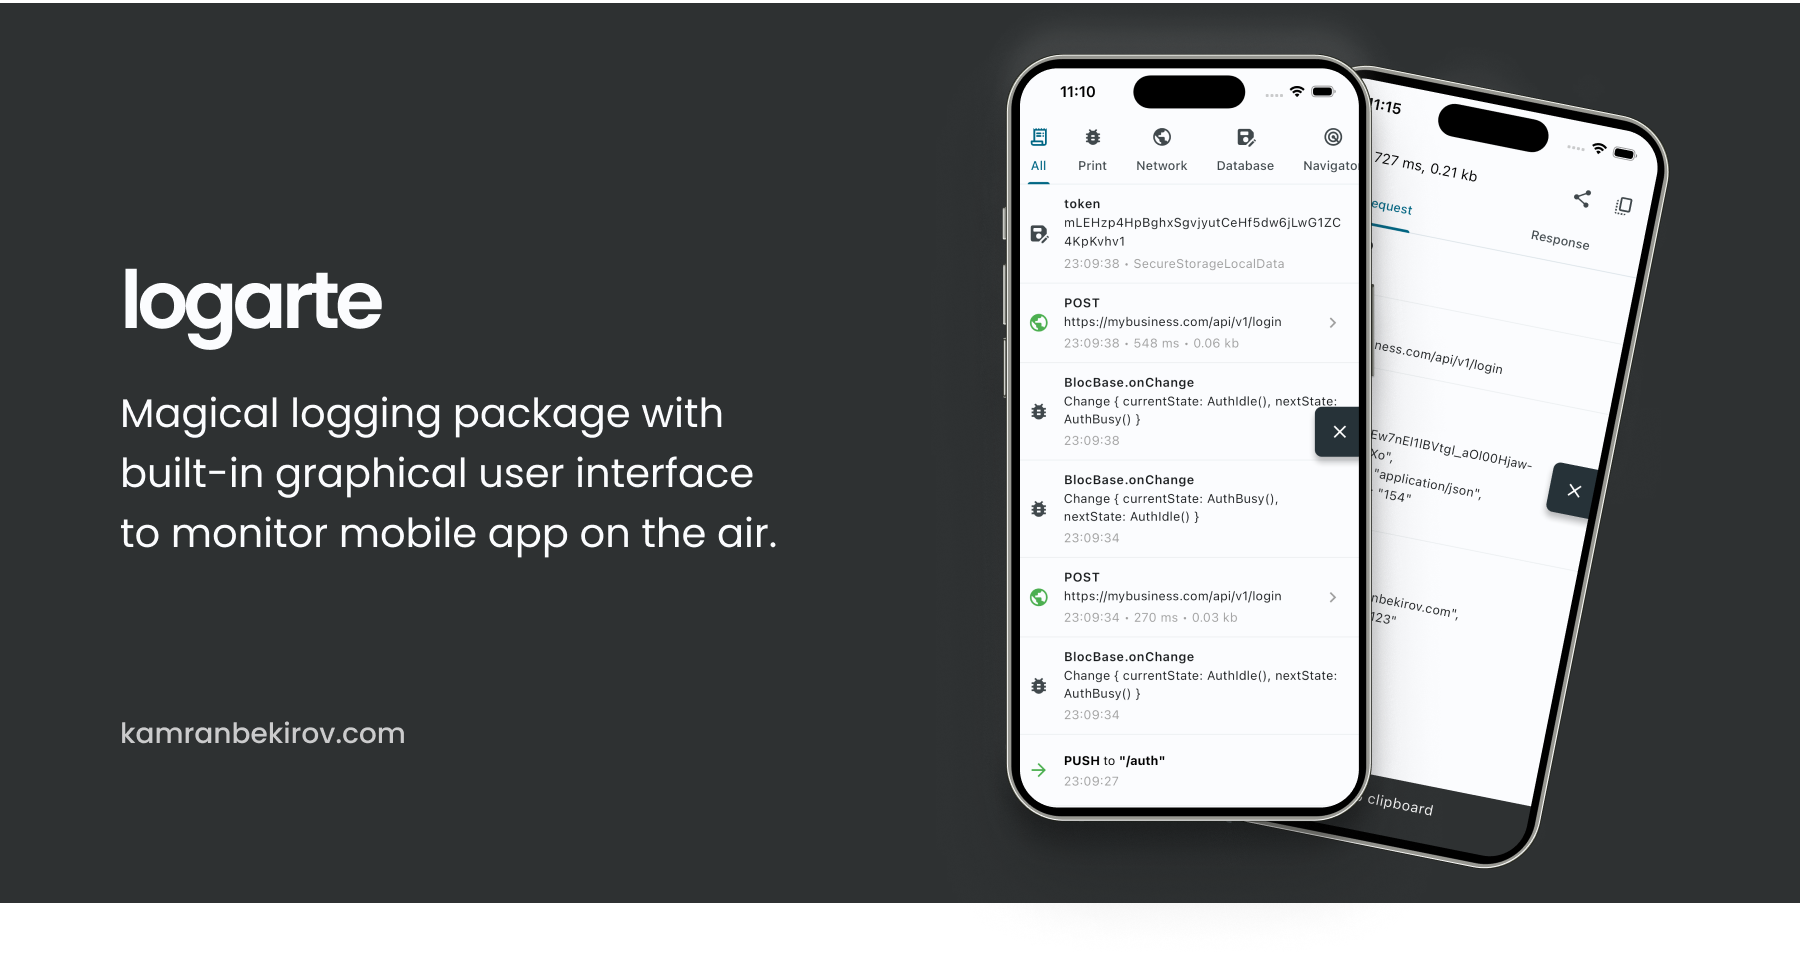
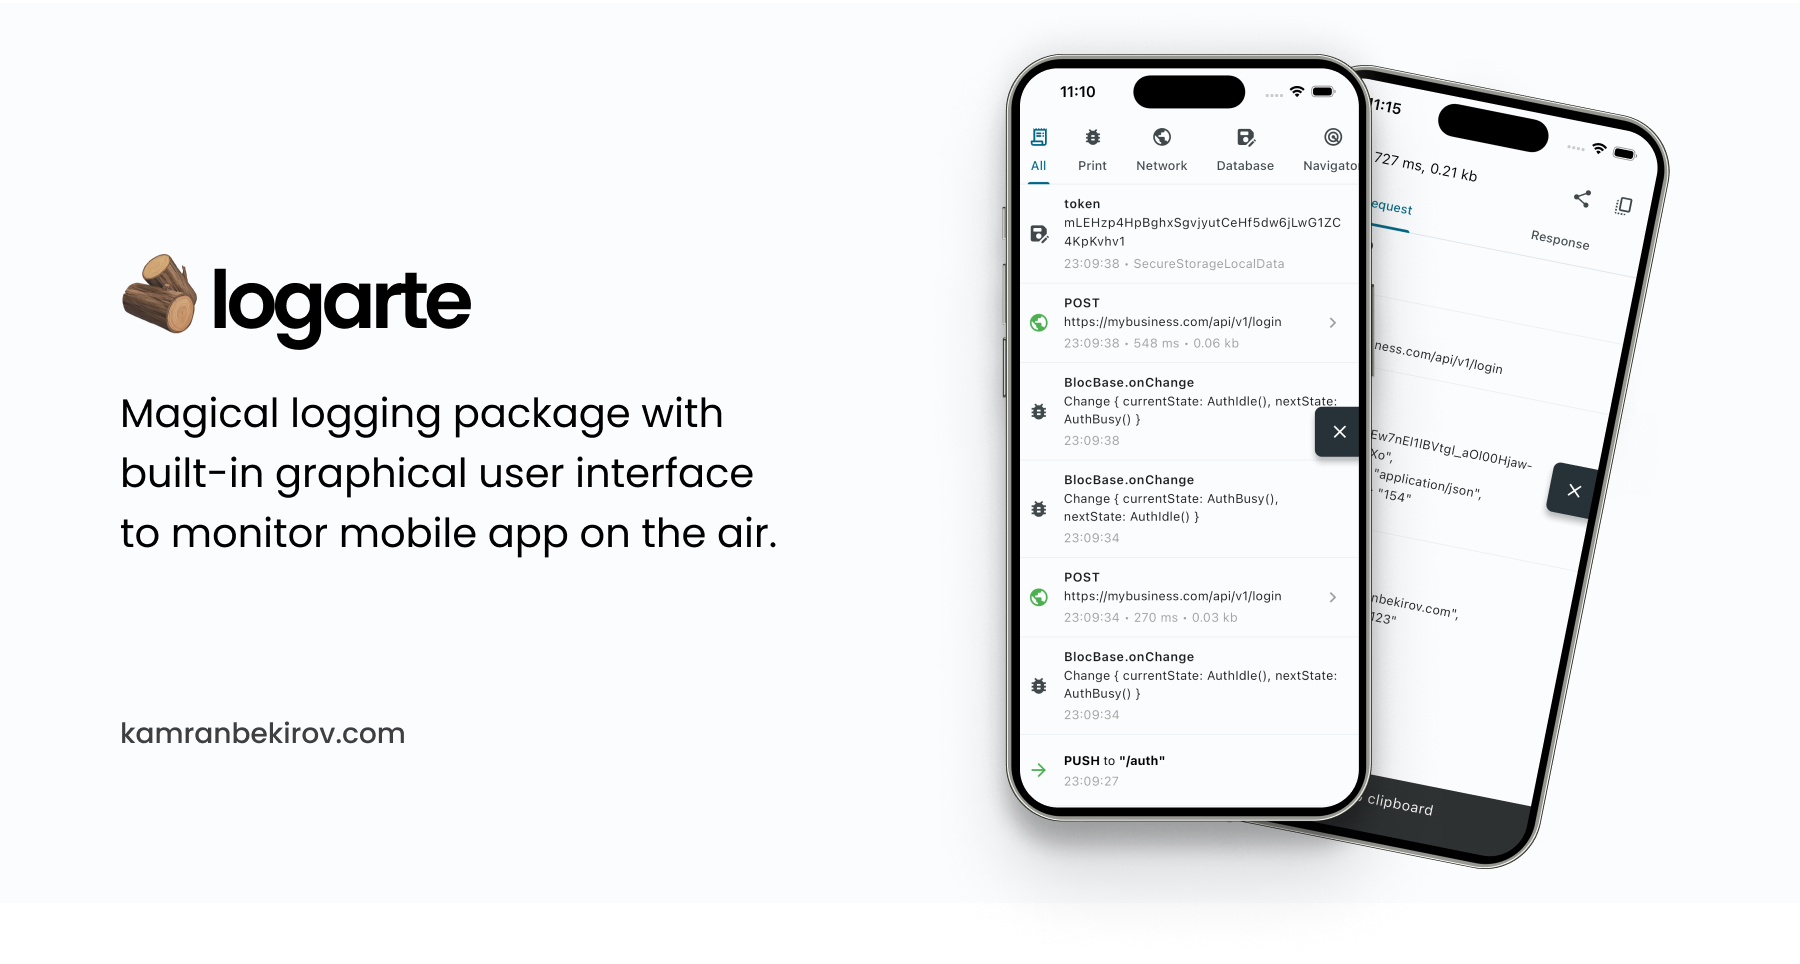
add cover, update readme

diff --git a/README.md b/README.md
@@ -5,9 +5,10 @@ A magical graphical debug console for Flutter.
 <img src="https://github.com/kamranbekirovyz/logarte/blob/main/doc/cover.png?raw=true">
 
 ## 📦 Features
-- **Password Protection**: Protect your graphical debug console with a password.
-- **Entry Button**: A floating button that can be used to open the console from anywhere in the app.
-- **Share Logs**: Share logs, even the network requests, with a single tap.
+- 🚀 **Graphical Console**: A beautiful and easy-to-use graphical console for debugging.
+- 🔒 **Password Protection**: Protect your graphical debug console with a password.
+- 📡 **Monitor Network Requests**: Logarte can track network requests and display them in the console.
+- 📤 **Share Logs**: Share logs and the network requests, with a single tap.
 
 ## 🪚 Installation
 
